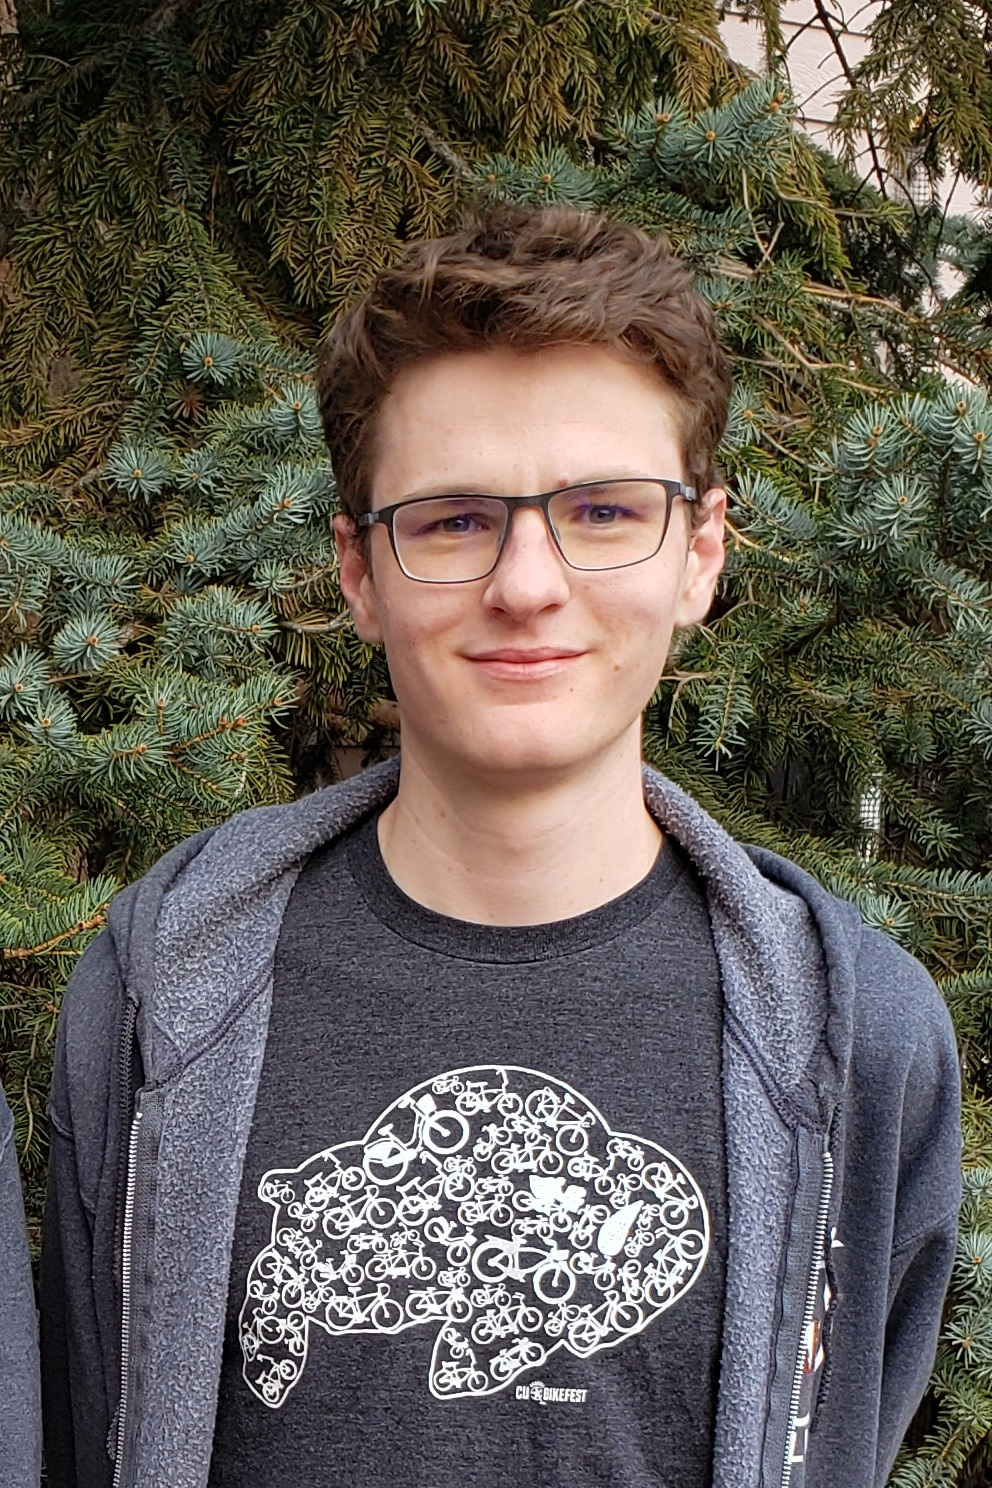
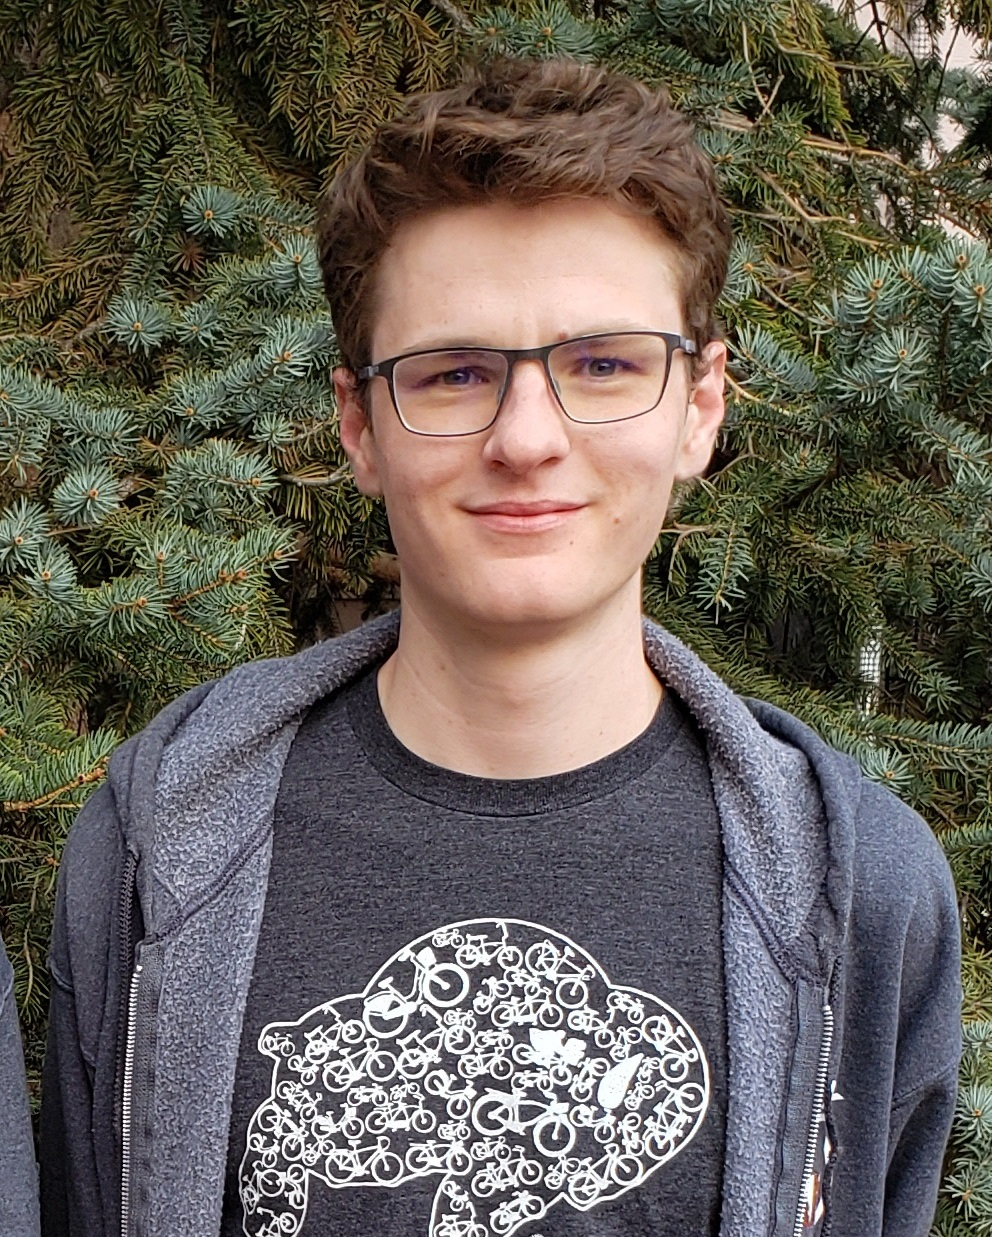
added some stuff

diff --git a/index.html b/index.html
@@ -29,7 +29,10 @@
 	</section>
 	<section id="pageContent">
 		<aside>
-			<div id="headshot"><img src="images/headshot.jpg" alt="Hey, that's me."></div>
+			<div id="headshot">
+				<h3 id="aboutTextHeadshot"></h3>
+				<img id="headshotimg" src="images/headshot.jpg" alt="Hey, that's me.">
+			</div>
 			<div style="text-align:center">
 				<h2>Links:</h2>
 				<a href="https://scholar.google.com/citations?user=_KsgD-wAAAAJ&hl=en" target="_blank" title="Google Scholar">
@@ -54,17 +57,20 @@
 			<article>
 				<h2>About Me</h2>
 				<p>
-					My name is Zack. I'm from Colorado, with half my family originally from Chile. I'm a Ph.D. student at UCSC in the Algorithms and Theory group working under <a href="https://people.ucsc.edu/~akolla/">Alex Kolla</a>.
-					I love math, computer science, and the intersection of the two; theoretical computer science.
-					I also enjoy teaching and hope to teach many classes during my Ph.D.
+					My name is Zack. I'm from Colorado, with half my family originally from Chile. I'm a Ph.D. student at <a href="https://www.ucsc.edu/">UCSC</a> in the <a href="#">Algorithms and Theory group</a> working under <a href="https://people.ucsc.edu/~akolla/">Alex Kolla</a>.
+					I love math, computer science, and the intersection of the two: theoretical computer science.
     			</p><br /><p>
         			I did my undergrad at the University of Colorado at Boulder, where I graduated <!--Summa Cum Laude-->with a BS in computer science and a double minor in applied math and pure math.
     			</p>
 			</article>
 			<article>
 				<h2>Contact Information</h2>
-				<p>Email Me: zjorquer [at] ucsc [dot] edu</p>
-					</li>
+				<!-- <p>Email Me: zjorquer [at] ucsc [dot] edu</p> -->
+				<p>Email Me:</p>
+				<ul>
+					<li> UCSC (default): <a href="#">zjorquer [at] ucsc [dot] edu</a></li>
+					<li> Personal: <a href="#">jorquerazack [at] gmail [dot] com</a></li>
+				</ul>
 			</article>
 			<article>
 				<h2>Research Interests</h2>
@@ -72,8 +78,11 @@
 			</article>
 			<article>
 				<h2>Hobbies</h2>
-				<p>
-					Outside of school, I like to Whitewater Kayak and Ski. For kayaking, some notable sections I've done are the Colorado classics Bailey Canyon and Gore Canyon (both are class IV-V). Then in California, I ran the Tobin section on the NF Feather (class IV-V-) and the south fork of the Feather (class IV-V). For skiing, In Colorado, I've done Dragontail Couloir and Silvers Coulior (one of the 50 classic descents of North America).
+				<p onmouseover="changeHeadshotImg1()" onmouseout="changeHeadshotImg2()">
+					Outside of school, I like to Whitewater Kayak and Ski.
+					For kayaking, some notable sections I've done are the Colorado classics Bailey Canyon and Gore Canyon (both are class IV-V).
+					Then in California, I ran the Tobin section of the north fork of the Feather (class IV+) and the south fork of the Feather (class IV-V).
+					For skiing, In Colorado, I've done Dragontail Couloir and Silvers Coulior (one of the 50 classic descents of North America).
 				</p>
 			</article>
 		</main>

diff --git a/teaching.html b/teaching.html
@@ -48,10 +48,10 @@
 			<article>
 				<h2>My Resources/Course Materials</h2>
 				<ul>
-                    <li><a href="pdfs/Notes_on_Induction.pdf">Notes on Proof by Induction</a></li>
-                    <li><a href="https://people.ucsc.edu/~zjorquer/files/gdb-guided-discovery.tgz">Guided discovery for GDB</a></li>
-
+                    <li><a href="pdfs/Notes_on_Induction.pdf">Notes on Proof by Induction</a> [<a href="pdfs/src/notes_on_induction.tex">Tex</a>] (Made for CSE 102 - Spring 2023)</li>
+                    <li><a href="https://people.ucsc.edu/~zjorquer/files/gdb-guided-discovery.tgz">Guided discovery for GDB</a> (Made for CSE 13S - Fall 2022)</li>
                 </ul>
+				<p>My resources and course materials are released under: <a href="http://creativecommons.org/licenses/by/4.0/" title="Rights to my resources"><img src="https://arxiv.org/icons/licenses/by-4.0.png"></a></p>
 			</article>
 		</main>
 	</section>

diff --git a/script.js b/script.js
@@ -1,0 +1,9 @@
+function changeHeadshotImg1(){
+    document.getElementById("headshotimg").src = "images/kayak_bailey.jpg";
+    document.getElementById("aboutTextHeadshot").textContent = "The Supermax Rapid in Bailey Canyon, CO (Class V)";
+};
+function changeHeadshotImg2(){
+    document.getElementById("headshotimg").src = "images/headshot.jpg";
+    document.getElementById("aboutTextHeadshot").textContent = "";
+};
+  

diff --git a/style.css b/style.css
@@ -167,6 +167,11 @@ body > section {
     display:block;
     width: 100%; 
 }
+#headshot h3 {
+    font-weight: normal;
+    margin-bottom: 12px;
+    text-align: right;
+}
 
 @media screen and (max-width: 1000px) {
 	body > section {

diff --git a/pdfs/src/notes_on_induction.tex b/pdfs/src/notes_on_induction.tex
@@ -1,0 +1,227 @@
+\documentclass{article}
+\usepackage[utf8]{inputenc}
+\usepackage{amsmath,amssymb,amsthm,xspace,amsfonts,amscd,braket,bm,bbm,braket,mathtools}
+\usepackage{graphicx}
+\usepackage{hyperref,cleveref}
+\usepackage{color}
+\usepackage{fullpage}
+\usepackage{biblatex}
+\usepackage{enumitem}
+\usepackage{tikz}
+\usepackage{optidef}
+\usepackage[skip=5pt]{parskip}
+\usepackage[noend]{algpseudocode}
+
+%\addbibresource{refs.bib}
+
+\algrenewcommand\algorithmicprocedure{}
+
+\setlength{\parindent}{0pt}
+
+\newcommand{\cc}[1]{\ensuremath{\mathsf{#1}}}
+\newcommand{\algprobm}[1]{{\sc #1}\xspace}
+
+\newcommand{\ra}{\rightarrow}
+
+\DeclareMathOperator{\sgn}{sgn}
+
+\DeclareMathOperator*{\argmax}{arg\,max}
+\DeclareMathOperator*{\argmin}{arg\,min}
+
+\newcommand{\R}{\mathbb{R}}
+\newcommand{\Z}{\mathbb{Z}}
+\newcommand{\ZZ}{\mathbb{Z}_{\ge 0}}
+\newcommand{\F}{\mathbb{F}}
+\newcommand{\C}{\mathbb{C}}
+\newcommand{\N}{\mathbb{N}}
+\renewcommand\H{\mathcal{H}}
+\newcommand\Q{\mathcal{Q}}
+
+\theoremstyle{plain}
+\newtheorem{thm}{Theorem} 
+\newtheorem{lemma}{Lemma} 
+\newtheorem{prop}{Proposition} 
+\theoremstyle{definition}
+\newtheorem{defn}{Definition}
+\newtheorem{example}{Example}
+\newtheorem{prob}{Problem}
+\newtheorem{remark}{Remark}
+
+\title{CSE 102, Introduction to Analysis of Algorithms\\
+Notes on Proof by Induction}
+\author{Zack Jorquera}
+
+\begin{document}
+
+\maketitle
+
+\section{Introduction}
+
+This document will serve as a reference for how to use proof by induction and what we expect in your own proofs on the homework. It is not required that you use the formatting seen in this document, but if you are still familiarizing yourself with the proof by induction technique, then it is highly recommended that you set up your proofs as we do in this document to help structure your proofs.
+
+\section{Proof By Induction}
+
+It is often useful to prove that a statement holds for any natural number. For example, we may want to prove that for any \(n \in \N\), the following holds (note, we are using \(\N = \{0, 1, 2, \dotsc\}\))
+\[\sum_{i=0}^n i = \frac{n(n+1)}{2}\]
+
+This sort of statement is impossible to verify for every \(n \in \N\) due to the infinite nature of the natural numbers. We could alternatively try to prove this by considering any arbitrary \(n \in \N\) and proving that it is true directly. However, this can be very challenging to prove and ignores the statement's structure. This structure is one of the smaller or earlier cases implying similar properties for subsequent cases. Namely, we have that \(\sum_{i=0}^{n+1} i = (n+1) + \sum_{i=1}^n i\). Instead, we can show that some initial cases satisfy the desired statement, which serves as a starting point for a chain of implications that will, in turn, prove the statement for the whole domain.
+
+Intuitively, we can think of this as a sequence of dominos. We have to knock over the first domino (proving the initial/base cases), and then if the dominos are close enough together, each domino will knock over the next in the sequence (the chain of implications).
+
+More specifically, an inductive proof has three components: The base cases, the inductive hypothesis, and the inductive step.
+
+\begin{enumerate}
+    \item \textbf{Bases Cases} - We first verify that the statement holds for the minimal cases (the ones that start the chain of implications).
+    \item \textbf{Inductive Hypothesis} - We want to show that \emph{if} some earlier cases satisfy the statement, \emph{then} so do the subsequent cases. The inductive hypothesis is the \emph{if} part of this if-then statement. We do this by assuming that the statement holds for some or all earlier cases.
+    \item \textbf{Inductive Step} - We use the inductive hypothesis to prove that the subsequent cases also hold. This is the \emph{then} part of the if-then statement.
+\end{enumerate}
+
+As an example, we can then use this proof technique to prove the following proposition.
+
+\begin{prop}
+    For all \(n \in \N\), we have that:
+    \[\sum_{i=0}^n i = \frac{n(n+1)}{2}\]
+\end{prop}
+\begin{proof}
+    We prove this by induction over \(n \in \N\).
+    
+    \textbf{Base Case}: We verify that the proposition holds for \(n=0\). We have that \(\sum_{i=0}^0 i = 0\) which is equal to \(\frac{0 \cdot (0 + 1)}{2} = 0\). And thus, the proposition holds for \(n=0\).
+
+    \textbf{Inductive Hypothesis}: Assume there exists a \(k \geq 0\) such that the proposition holds:
+    \[\sum_{i=0}^k i = \frac{k(k+1)}{2}\]
+
+    \textbf{Inductive Step}: Consider the sum of integers from \(0\) to \(k+1\), for which we have the following:
+    \begin{align*}
+        \sum_{i=0}^{k+1} i &= (k+1) + \sum_{i = 0}^{k} i \\
+        &= (k+1) + \frac{k(k+1)}{2}\ \ \ \ \text{(by inductive hypothesis)} \\
+        &= \frac{2(k+1) + k(k+1)}{2} \\
+        &= \frac{k^2 + 3k + 2}{2} \\ 
+        &= \frac{(k+1)(k+2)}{2} \\ 
+    \end{align*}
+    And thus, by induction, the proposition holds for all \(n \in \N\).
+\end{proof}
+
+\begin{remark}
+    There are many ways to write an inductive hypothesis. For example, we could have said something like ``Fix a \(k \geq 0\), and suppose that the proposition holds." Or we could continue using \(n\) instead of introducing a new variable \(k\). However, be careful. A common mistake is to beg the question. That is, if we were to assume that the entire proposition is true. As an incorrect example, I could have said, ``Suppose that for all \(k \geq 0\), the proposition is true." This, however, is incorrect. The goal is to prove the proposition, and so assuming that it is already true defeats the purpose. Instead, we want to fix a \(k\) that is at least as large as our largest base case (in this case \(n=0\)) and assume that the proposition holds for this specific fixed \(k\). This may seem pedantic, but it is important to have the correct wording.
+\end{remark}
+
+\phantom{a}
+
+The above proof by induction is an example of \emph{weak induction}, the most basic form of induction. In short, weak induction is when we only have a single base case, and the inductive hypothesis only assumes the statement is true for some fixed \(k\). Another form of induction that is widely used is \emph{strong induction}. In short, strong induction is more relaxed. For the inductive hypothesis, we can assume the statement holds for all cases \(m \leq k\), for some fixed \(k\), and not just for \(k\) alone. And in turn, we may need to use more base cases.
+
+\begin{remark}
+Somewhat surprisingly, strong induction and weak induction are equally as powerful. That is, any proof using strong induction can be converted into a proof using weak induction and vice versa. However, in practice, it may be easier to use one over the other. 
+\end{remark}
+
+As a side note, many of the loop invariant proofs we will see in this class use weak induction. That is, they assume only that the loop invariant is true at the start of the loop and then prove that it is true at the end of the loop (or at the start of the next iteration, depending on how you phrase it). In comparison, many proofs for recursive algorithms use strong induction. That is, they assume that the algorithm works for subproblems of smaller sizes.
+
+We can then give some examples of using strong induction (you might have seen these in week 1 discussion section).
+
+\begin{prop}
+    Let \(F_n\) for \(n \geq 0\) denote the \(n\)th Fibonacci number, which is defined as \(F_0 = 0, F_1 = 1, F_n = F_{n-1} + F_{n-2}\) for \(n \geq 2\). And let \(L_n\) for \(n \geq 0\) denote the \(n\)th Lucas number, which is defined as \(L_0 = 2, L_1 = 1, L_n = L_{n-1} + L_{n-2}\) for \(n \geq 2\). We have that for all \(n \geq 1\),
+    \[L_n = F_{n-1} + F_{n+1}\]
+\end{prop}
+
+For reference, we write the first few numbers for both sequences:
+\[\begin{array}{c|c|c|c|c|c|c|c|c}
+    n   & 0 & 1 & 2 & 3 & 4 & 5 & 6 & 7 \\
+    \hline \hline
+    F_n & 0 & 1 & 1 & 2 & 3 & 5 & 8 & 13 \\
+    \hline
+    L_n & 2 & 1 & 3 & 4 & 7 & 11 & 18 & 29 \\
+\end{array}\]
+
+\begin{proof}
+    We prove this by strong induction over \(n \geq 1\).
+    
+    \textbf{Base Case}: We verify that the proposition holds for \(n=1\) and \(n=2\). First, we can verify that \(L_1 = 1\) and \(F_0 + F_2 = 0 + 1 = 1\). Next, we can verify that \(L_2 = 3\) and \(F_1 + F_3 = 1 + 2 = 3\). And thus, the proposition holds for \(n=1\) and \(n=2\).
+
+    \textbf{Inductive Hypothesis}: Assume there exists a \(k \geq 2\) such that the proposition holds for \(k\) and \(k-1\):
+    \[L_k = F_{k-1} + F_{k+1}\]
+    \[L_{k-1} = F_{k-2} + F_{k}\]
+
+    \textbf{Inductive Step}: Consider the \((k+1)\)th Lucas number, for which we have the following:
+    % \begin{align*}
+    %     L_{k+1} &= L_{k} + L_{k-1}\ \ \ \ \ \ \ \ \ \ \ \ \ \ \ \ \ \ \ \ \ \ \ \ \text{(by definition of the Lucas numbers)} \\
+    %     &= F_{k-1} + F_{k+1} + F_{k-2} + F_{k}\ \ \ \ \text{(by inductive hypothesis)} \\
+    %     &= F_{k} + F_{k+2}\ \ \ \ \ \ \ \ \ \ \ \ \ \ \ \ \ \ \ \ \ \ \ \ \,\text{(by definition of the Fibonacci numbers)}
+    % \end{align*}
+    \[\begin{array}{rll}
+        L_{k+1} \!\!\!\! &= L_{k} + L_{k-1} & \text{(by definition of the Lucas numbers)} \\
+        &= F_{k-1} + F_{k+1} + F_{k-2} + F_{k} & \text{(by inductive hypothesis)} \\
+        &= F_{k} + F_{k+2} & \text{(by definition of the Fibonacci numbers)}
+    \end{array}\]
+    And thus, by induction, the proposition holds for all \(n \geq 1\).
+\end{proof}
+
+\begin{remark}
+    In this proof, we used two base cases and assumed the proposition held for both \(n=k\) and \(n=k-1\), but why is this? You will notice that in the inductive step, we applied the inductive hypothesis to both \(L_k\) and \(L_{k-1}\). If we only assumed it held for \(n=k\), then we would be left with \(L_{k+1} = F_{k-1} + F_{k+1} + L_{k-1}\), which wouldn't help us prove the proposition for \(n=k+1\). Next, for the base cases, if we were only to have one base case, for \(n=1\), then the inductive hypothesis would have to consider some fixed \(k \geq 1\). For the smallest value of \(k=1\), this would have us assume that \(L_0 = F_{-1} + F_{1}\), which doesn't make sense as negative Fibonacci numbers haven't been defined in this proposition. As a general rule of thumb, the number of required base cases equals the number of assumptions you make in the inductive hypothesis (this isn't always true, but it often is).
+\end{remark}
+
+\phantom{abc}
+
+Next, we will look at the tournament ranking problem. So far, all the proofs in this document have only concerned numerical equalities. However, this is an algorithms class, and so we want to prove things from the perspective of algorithms. The tournament ranking is a nice introduction to this.
+
+\begin{prop}[The Tournament Ranking Problem]
+    Consider a tennis tournament of \(n \geq 1\) players, denoted by \(\left\{P_1, P_2, \dotsc, P_n\right\}\). For each pair of players, say \(\{P_i, P_j\}\), they play a match where one player wins (there are no ties). We say \(P_i \prec P_j\) if player \(P_j\) beats \(P_i\) in their match. Then for any outcome of the \(\binom{n}{2}\) matches, there is always an ordering of the players:
+    \[P_{i_1} \prec P_{i_2} \prec \cdots \prec P_{i_n}\]
+    Here, \(i_1, i_2, \dotsc, i_n\) denotes a permutation of \(1, 2, \dotsc, n\). Note, an ordering is \emph{not} transitive. That is for players \(\{P_1, P_2, P_3\}\), \(P_1 \prec P_2 \prec P_3\) does \emph{not} imply \(P_1 \prec P_3\), rather only that \(P_1 \prec P_2\) and \(P_2 \prec P_3\).
+\end{prop}
+
+Before we prove this, it is useful to give the idea of the proof. That is, for our tournament of \(n\) players, which, for notation we will call \(\text{PLAYERS} = \left\{P_1, P_2, \dotsc, P_n\right\}\), we fix player \(P_1\) and consider all the players that lost to player \(P_1\) and all the players that beat \(P_1\). That is, we consider all the players that can go where the \(??\)s are:
+\[?? \prec P_1 \prec ??\]
+Furthermore, the number of players that can go where the \(??\)s are is strictly less than \(n\) as they can't include \(P_1\). This defines a recursive structure of the problem. Namely, if we can find an ordering of these subsets of players and put them where the question marks are, we would get an ordering for all \(n\) players.
+
+To make the proof easier, we will consider the base case to be when there are no players in the tournament. Even though we only need to prove this proposition for \(n \geq 1\), we will find it to be much easier to prove it for \(n \geq 0\). This may seem weird at first, but everything works out as far as the induction step is concerned.
+
+\begin{proof}
+    We prove this by strong induction over the number of players in the tournament, \(n \geq 0\).
+    
+    \textbf{Base Case}: We verify that there exists an ordering for no player, \(\emptyset\). The ordering is nothing.
+
+    \textbf{Inductive Hypothesis}: Assume there exists a \(k \geq 0\) such that for any tournament of \(0 \leq m \leq k\) players there is an ordering of the players.
+
+    \textbf{Inductive Step}: Consider a tournament of \(k+1\) players and let \(\text{PLAYERS} = \left\{P_1, P_2, \dotsc, P_k, P_{k+1}\right\}\) be the set of the players. We then fix \(P_1\) and consider the set of players that lost to \(P_1\), which we will call \(L\), and the set of players that beat \(P_1\), which we will call \(W\). These sets can be defined by 
+    \[L = \{P \in \text{PLAYERS}\ |\ P \prec P_1\}\]
+    \[W = \{P \in \text{PLAYERS}\ |\ P_1 \prec P\}\]
+
+    Because \(P_1 \notin L\) and \(P_1 \notin W\) we have that \(s = |L| \leq k\) and \(t = |W| \leq k\). Furthermore, because no player can both lose and win to \(P_1\) and every player had a match with \(P_1\), they are disjoint, and their union is all players minus \(P_1\). We can then use the induction hypothesis to get an ordering of the players in \(L\) and \(W\) (that is, we consider ``sub-tournaments" of only the matches between the players in \(L\) and \(W\)). Let the orderings for \(L\) and \(W\) be given by the following, respectively:
+    \[P_{\ell_1} \prec P_{\ell_2} \prec \cdots \prec P_{\ell_s}\]
+    \[P_{w_1} \prec P_{w_2} \prec \cdots \prec P_{w_s}\]
+    Finally, we can construct the final ordering as follows. Note, if either \(L\) or \(W\) are the empty set, then we ignore their orderings and let \(P_1\) be at one or both of the ends of the ordering.
+    \[P_{\ell_1} \prec \cdots \prec P_{\ell_s} \prec P_1 \prec P_{w_1} \prec \cdots \prec P_{w_s}\]
+    All that is left to check is that \(P_{\ell_s} \prec P_1\) and \(P_1 \prec P_{w_1}\). These follow from the fact that \(P_{\ell_s} \in L\) and thus lost to \(P_1\) and that \(P_{w_1} \in W\) and thus beat \(P_1\).
+
+    And thus, by induction, there is always an ordering for any tournament of \(n \geq 1\) players.
+\end{proof}
+
+\begin{remark}
+    In many ways, the inductive step can be seen as proving the correctness of a recursive algorithm for finding an ordering. This algorithm is a divide-and-conquer style strategy that can be roughly written in the following way: We first divide the problem into the losing and winning sets, then we find an ordering for them recursively, and finally, we combine them together to get an ordering for the whole set. Then proving the proposition is equivalent to proving the correctness of this algorithm (which is written in pseudo-code below). Note we store this ordering in a list data structure that supports list concatenation with the \(+\) operator.
+    \begin{center}
+    \begin{minipage}{.5\linewidth}
+    \begin{algorithmic}[1]
+        \Procedure{\textsc{TournamentRanking}}{\text{PLAYERS}}
+            \If{\(\text{PLAYERS} = \emptyset\)} 
+                \Return \([\;]\)
+            \Else
+                \State fix \(P_1 \in \text{PLAYERS}\)
+                \State \(L \leftarrow \{P \in \text{PLAYERS}\ |\ P \prec P_1\}\)
+                \State \(W \leftarrow \{P \in \text{PLAYERS}\ |\ P_1 \prec P\}\)
+
+                \State \(L_{\text{ord}} \leftarrow \textsc{TournamentRanking}(L)\)
+                \State \(W_{\text{ord}} \leftarrow \textsc{TournamentRanking}(W)\)
+
+                % IDK why return is not aligned with the above \State lines, That's why I added the `\ \ \ ` before.
+                \ \ \ \Return \(L_{\text{ord}} + [P_1] + W_{\text{ord}}\)
+            \EndIf 
+        \EndProcedure
+    \end{algorithmic}
+    \end{minipage}
+    \end{center}
+\end{remark}
+
+\section{Additional Reading}
+
+For a more in-depth resource, we recommend Richard Hammacks's \emph{Book of Proof} (Chapter 10), which can be found here: \url{https://www.people.vcu.edu/~rhammack/BookOfProof/}.
+
+\end{document}
